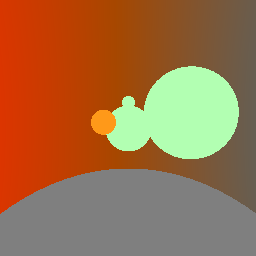
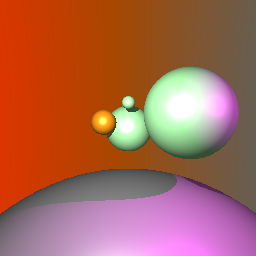
A4: Anti-Aliasing added

diff --git a/A4/A4.cpp b/A4/A4.cpp
@@ -11,8 +11,27 @@
 using namespace std;
 using namespace glm;
 
+#define ANTI_ALIASING 1
+
 static const float EPS = 0.000001; // correction factor
 static const float MAX_RGB = 255.0f; // maximum rgb value
+static const float MAX_T = numeric_limits<float>::max();// max t distance
+
+float rand_float(){
+	return (float) rand()/(RAND_MAX +1.0);
+}
+
+vec3 randUnitVector(){
+	vec3 randVec;
+	do{
+		randVec.x = rand_float();
+		randVec.y = rand_float();
+		randVec.z = 0.0f;
+
+	}while(length(randVec) >= 1.0f);
+	return randVec;
+}
+
 
 vec3 rayTraceRGB(
 	// What to render  
@@ -30,9 +49,7 @@ vec3 rayTraceRGB(
 	
 
 	// TODO: EPS acts as minimum, check if valid enough
-	if(root->isHit(ray, EPS, numeric_limits<float>::max(),record)){
-
-	
+	if(root->isHit(ray, EPS, MAX_T,record)){
 		// Hit happened
 		// TODO: handle hit
 
@@ -40,12 +57,34 @@ vec3 rayTraceRGB(
 		record.hitPointVec += record.normalVec * EPS;
 
 		PhongMaterial *material = static_cast<PhongMaterial *>(record.material);
-
-		returnColor += material->getDiffuse();
-		// TODO:: Add ambient light
 		
+		// Add ambience 
+		returnColor += material->getDiffuse() * ambient;
+		
+		for (Light * light : lights){
+			RayTracer shadeRay;
+			shadeRay.setOrigin(record.hitPointVec);
+			shadeRay.setDirection(light->position - record.hitPointVec);
 
-		// TODO: handlle lights and shadows
+			HitRecord shadeRecord;
+
+			if(root->isHit(shadeRay, EPS,MAX_T,shadeRecord)){
+				// Shaderay hits an object, no need for light 
+				continue;
+			}
+
+			vec3 L = normalize(shadeRay.getDirection());// vector pointing towards light from hitPoint
+			vec3 V = normalize(eye - record.hitPointVec); // vector pointing towards eye from hitPoint
+			vec3 N = normalize(record.normalVec);// normal vector at hitPoint
+			vec3 H = normalize(V + L);// half vector, bisecting vector
+			
+			// Add diffuse
+			returnColor += std::max(0.0, (double)dot(N,L)) * material->getDiffuse() * light->colour;
+
+			// Add specular 
+			returnColor += pow(std::max(0.0, (double)dot(N,H)),material->getShininess()) *
+						   material->getSpecular() * light->colour;
+		}
 
 	}else{
 		// Miss happened
@@ -116,7 +155,7 @@ void A4_Render(
 	// loop through each pixel and peform ray tracing on each one
 	for (uint y = 0; y < h; ++y) {
 		for (uint x = 0; x < w; ++x) {
-			// TODO: add per pixel actions here
+			// Per pixel actions here
 			// Get corresponding direction for pixel
 			const vec3 dirVec = initDirVec + (float)(w-x) * uVec + (float)(y) * vVec;
 
@@ -128,16 +167,19 @@ void A4_Render(
 			// Initialize Color
 			vec3 pixelColorVec(0.0f,0.0f,0.0f);
 
-			// TODO: possibly do anti-aliasing
-
-
-			// TODO: ray trace the color
-			// TODO: check if addition is necessary
-			pixelColorVec += rayTraceRGB(root,ray,eye,ambient,lights);
+			// Anti-Aliasing
+			if (ANTI_ALIASING >= 1 ){
+				size_t samplesPerPixel = 15;
+				for (int i =0;i < samplesPerPixel;++i){
+					ray.setDirection(dirVec + randUnitVector() * (uVec +vVec) * 0.5);
+					pixelColorVec += rayTraceRGB(root,ray,eye,ambient,lights);
+				}
+				pixelColorVec = pixelColorVec/samplesPerPixel;
+				
+			}else{
+				pixelColorVec += rayTraceRGB(root,ray,eye,ambient,lights);
+			}
 			
-		
-			// TODO: change from white default ie remove 
-			// pixelColorVec = vec3(1.0f,1.0f,1.0f); // makes it white
 			// Red: 
 			image(x, y, 0) = (double)pixelColorVec.r;
 			// Green: 

diff --git a/A4/Mesh.cpp b/A4/Mesh.cpp
@@ -17,6 +17,7 @@ Mesh::Mesh( const std::string& fname )
 	: m_vertices()
 	, m_faces()
 {
+	cout << "initialized mesh Mesh(fname) entered"<<endl;
 	std::string code;
 	double vx, vy, vz;
 	size_t s1, s2, s3;
@@ -31,6 +32,8 @@ Mesh::Mesh( const std::string& fname )
 			m_faces.push_back( Triangle( s1 - 1, s2 - 1, s3 - 1 ) );
 		}
 	}
+
+	cout << "initialized mesh Mesh(fname) exited"<<endl;
 }
 
 std::ostream& operator<<(std::ostream& out, const Mesh& mesh)

diff --git a/A4/Mesh.hpp b/A4/Mesh.hpp
@@ -13,7 +13,7 @@
 // Use this #define to selectively compile your code to render the
 // bounding boxes around your mesh objects. Uncomment this option
 // to turn it on.
-//#define RENDER_BOUNDING_VOLUMES
+#define RENDER_BOUNDING_VOLUMES 1
 
 struct Triangle
 {
